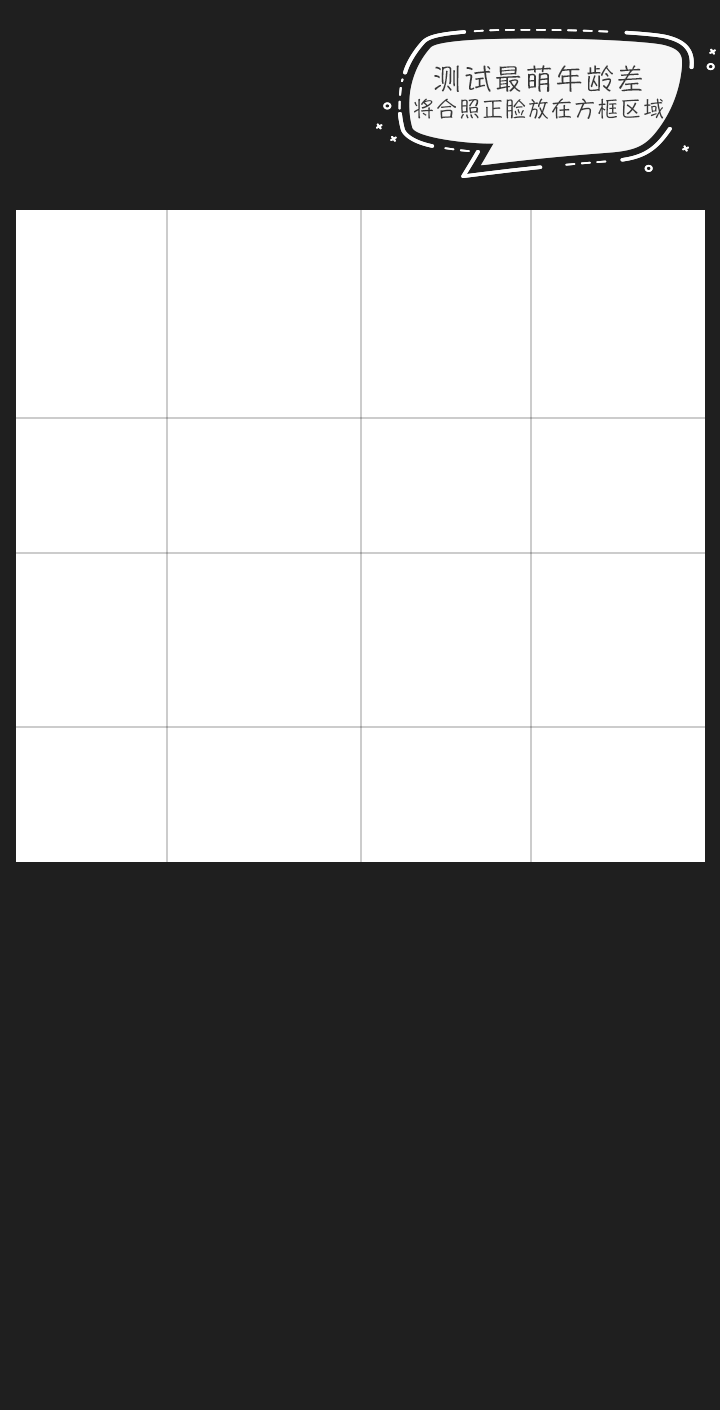
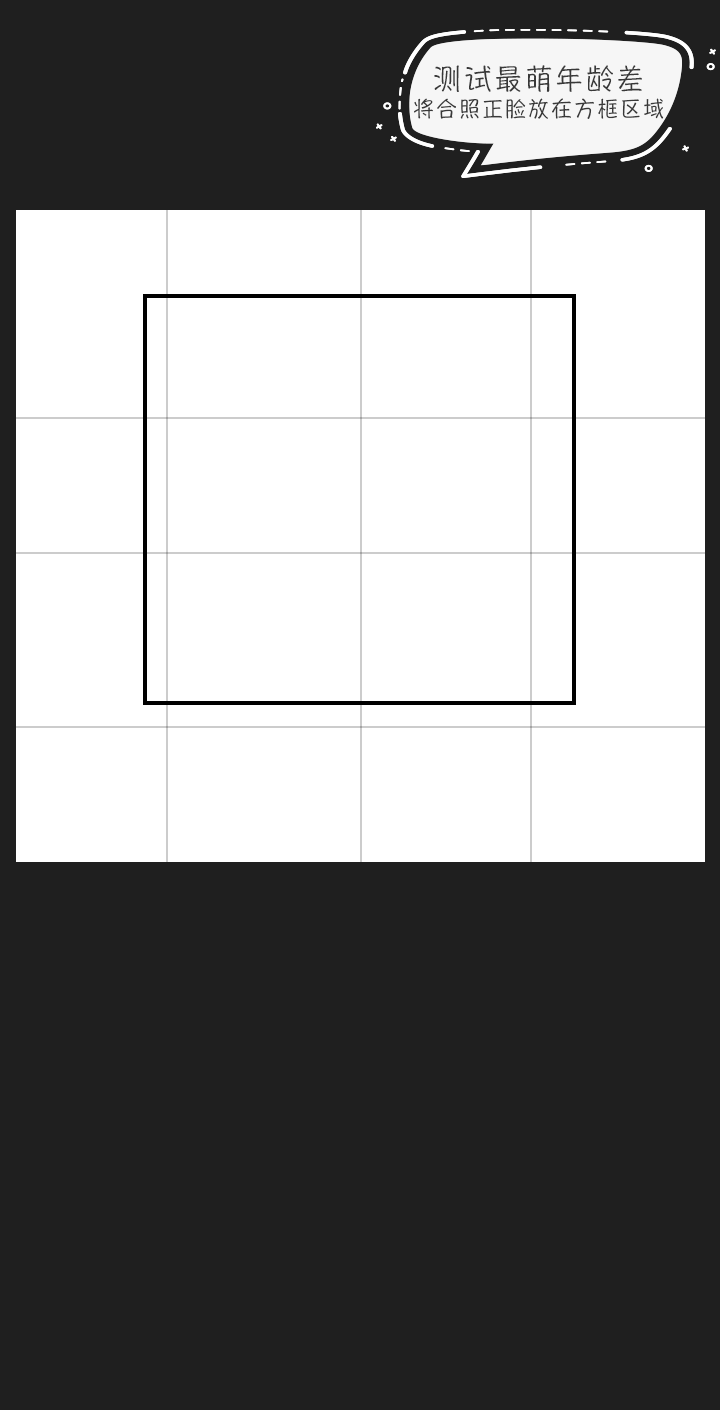
同步了服务器版，有一定前端修改，增加了存图的质量，修改了回到首页功能

Changed region(s): [[0.7944, 0.2184, 0.825, 0.4993], [0.1833, 0.2184, 0.2139, 0.4993]]

diff --git a/index.php b/index.php
@@ -532,7 +532,8 @@ $(document).ready(function() {
 
     //返回首页
     $('#p8_bt_1').click(function () {
-        window.location.href=window.location.href+'?timeline='+Math.random();
+        //window.location.href=window.location.href+'?timeline='+Math.random();
+        window.location.href='index.php';
     });
 
 	//手指滑动切换页面
@@ -781,14 +782,14 @@ function getWidth(){
     //
     $('#p7_close').width(100/p).height(100/p).css({right:20/p+'px',top:20/p+'px'});
     //p8
-    $('.p8_bt').width(268/p).height(73/p).css({bottom:95/p+'px'});
+    $('.p8_bt').width(268/p).height(73/p).css({bottom:65/p+'px'});
     $('#p8_bt_1').css({left:76/p+'px'});
     $('#p8_bt_2').css({left:376/p+'px'});
     $('#p8_1').width(145/p).height(82/p).css({left:37/p+'px',top:339/p+'px'});
     $('#p8_2').width(203/p).height(115/p).css({left:494/p+'px',top:370/p+'px'});
     $('#p8_3').width(147/p).height(84/p).css({left:360/p+'px',top:710/p+'px'});
     $('#p8_4').width(211/p).height(120/p).css({left:70/p+'px',top:825/p+'px'});
-    $('#p8_5').width(103/p).height(59/p).css({left:530/p+'px',top:940/p+'px'});
+    $('#p8_5').width(103/p).height(59/p).css({left:530/p+'px',top:910/p+'px'});
     $('#p8_bg,#p6_bg').height(1170/p);
 }
 </script>

diff --git a/cutimage.php b/cutimage.php
@@ -38,7 +38,7 @@ if(isset($_POST['filename'])){
     $sy=$sy*720/$imagew;
     imagecopyresized($image, $source, 0, 0, $sx, $sy, $newwidth, $newheight, $swidth, $sheight);
     $savename=date('YmdHis',time()).rand(1000,9999).'.'.$suffix;
-    imagejpeg ($image,"cuted/".$savename);
+    imagejpeg ($image,"cuted/".$savename,100);
 
     $img = "cuted/".$savename;
     $base64_img = ig2tools::base64EncodeImage($img,false);
@@ -125,7 +125,7 @@ if(isset($_POST['filename'])){
         imagecopyresized($image, $source, $face2popx, $face2popy, 0, 0, 82*1.5, 78*1.5, 82, 78);
         imagettftext($image, 35, 0, $face1agex, $face1agey, $black, $font, $face1age);
         imagettftext($image, 35, 0, $face2agex, $face2agey, $black, $font, $face2age);
-        imagejpeg ($image,"cuted/".$savename);
+        imagejpeg ($image,"cuted/".$savename,100);
         $res["msg"] = 'cut success';
         $res["filename"] = $savename;
         $res["info"] = $result;

diff --git a/makeimage.php b/makeimage.php
@@ -15,7 +15,7 @@ imagecopyresized($image, $source, 0, 0, 0, 0, 720, 1410, 720, 1410);
 $source = imagecreatefrompng("images/makeElem/huazi_".$_POST['huazi'].".png");
 imagecopyresized($image, $source, $huazix, $huaziy, 0, 0, $huaziw, 166*$huaziw/265, 265, 166);
 $savename=date('YmdHis',time()).rand(1000,9999).'.jpg';
-imagejpeg ($image,"made/".$savename);
+imagejpeg ($image,"made/".$savename,100);
 
 $res["msg"]="made success";
 $res['filename']=$savename;

diff --git a/doajaxfileupload.php b/doajaxfileupload.php
@@ -94,7 +94,7 @@ if(!empty($_FILES[$fileElementName]['error'])){
     $image = imagecreatetruecolor($newwidth, $newheight);
     imagecopyresized($image, $source, 0, 0, 0, 0, $newwidth, $newheight, $width, $height);
 
-    imagejpeg ($image,"upload/".$savename);
+    imagejpeg ($image,"upload/".$savename,100);
     $res["msg"] = 'upload success';
     $res["filename"] = $savename;
     exit(json_encode($res));
